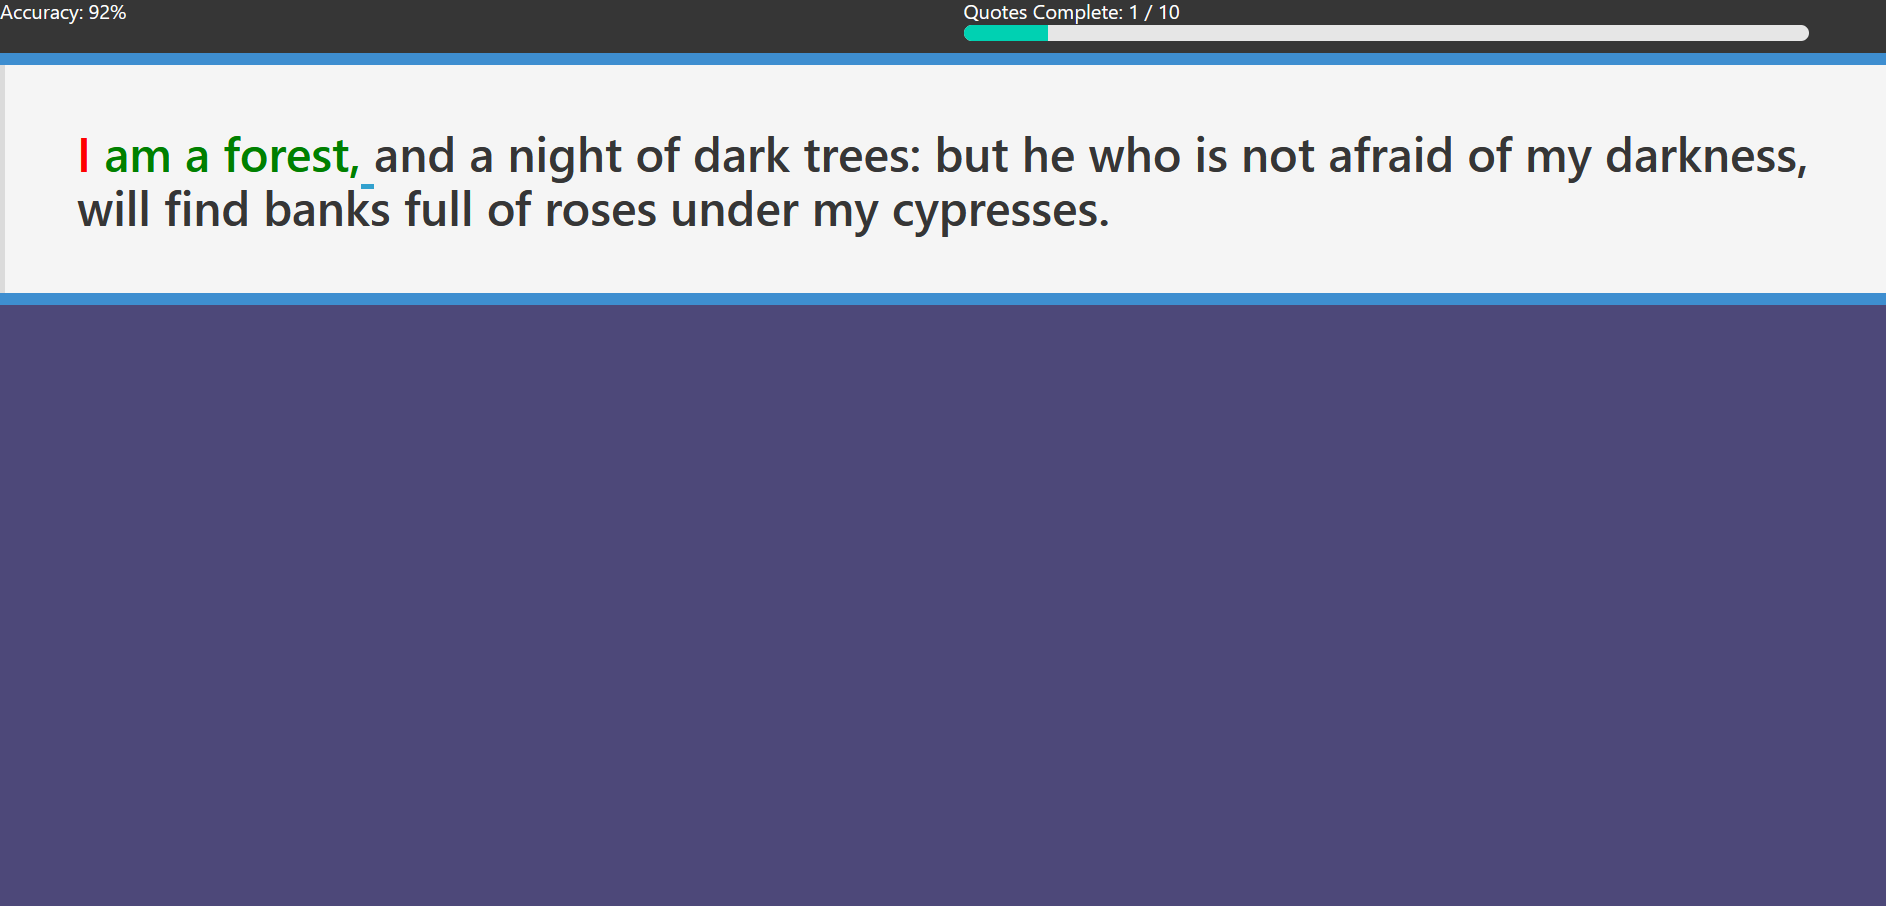
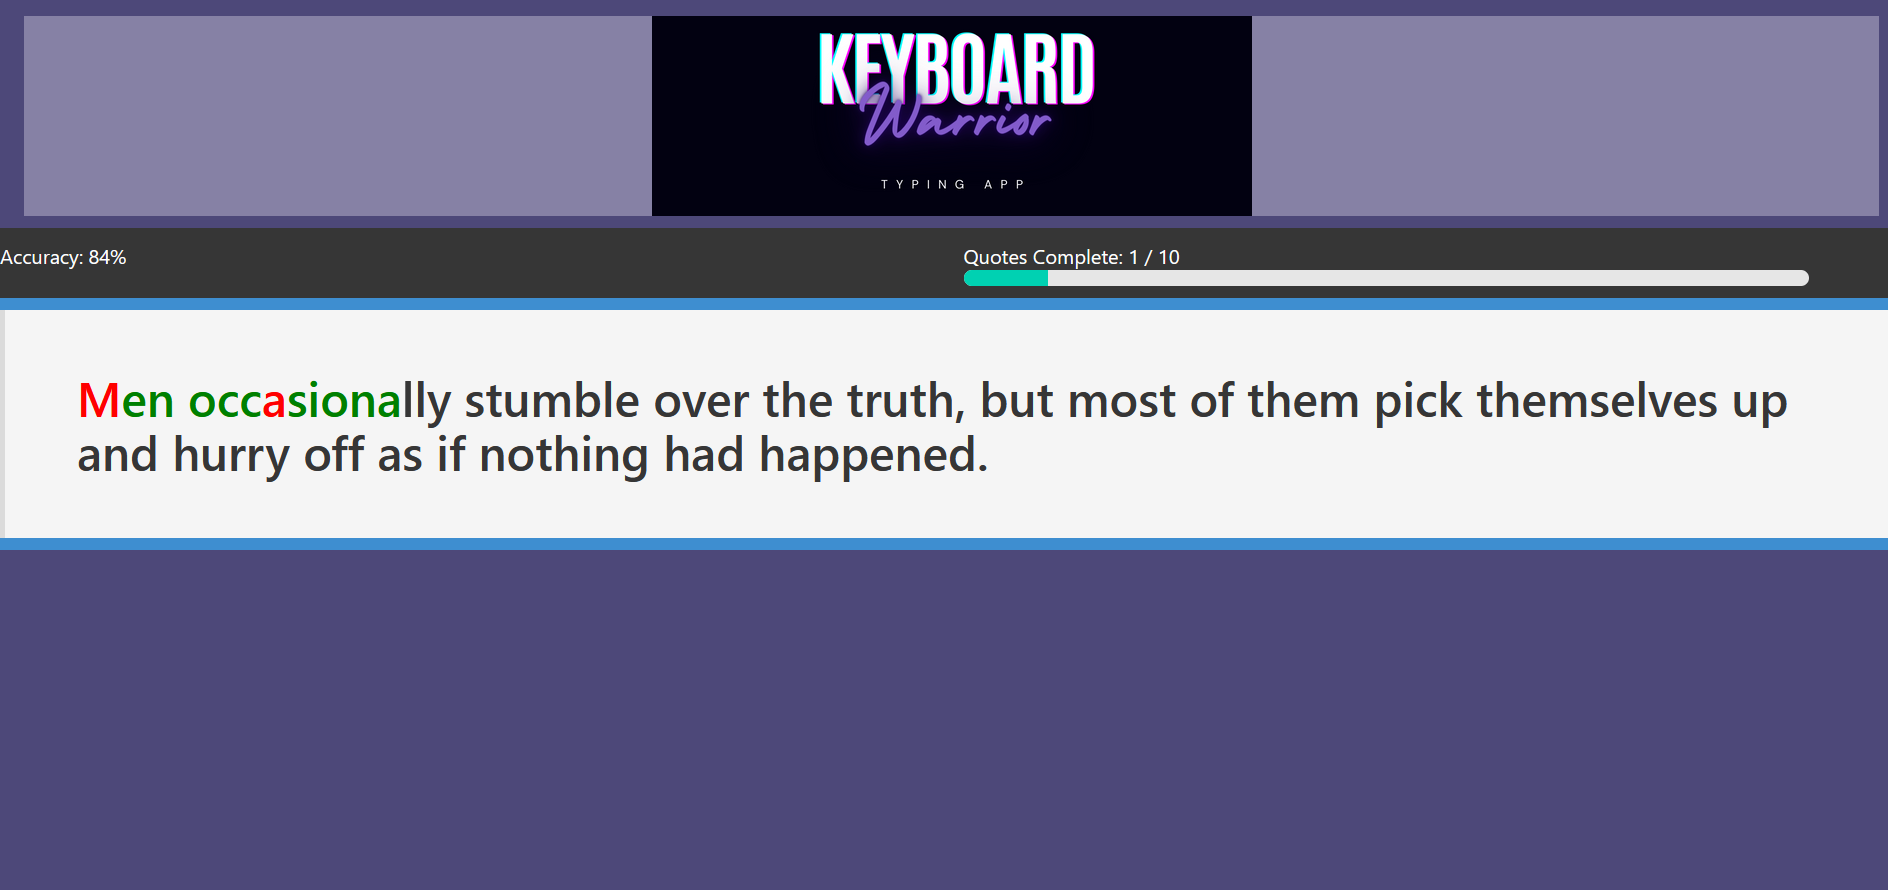
updated Readme and fixed issue with space key adjusting page when typing

diff --git a/assets/js/logic.js b/assets/js/logic.js
@@ -40,7 +40,9 @@ switch(target) {
 
 //Keyboard input listener -- WILL NEED TO CHECK TABLET COMPATIBILITY
 document.addEventListener('keydown', (event) => {
-    if (position < length){ 
+  event.preventDefault();//prevents space key from moving screen position and accidental ctl + f presses
+  
+  if (position < length){ 
       inputFilter(event);
   } else if (position >= length) {//Trigger next qoute if avaliable and array not at last #
       arrayPosition = arrayPosition + 1;//increase arrayPosition 
@@ -133,6 +135,7 @@ function restultsHTML(){
   let sum = 0;// create a variable for the sum and initialize it
   for (let i = 0; i < accuracyScores.length; i++ ) {// iterate over each item in the array
     sum += accuracyScores[i];
+    break;
   }
   let outOf = theme.length *100;//array length *100 to get total score value
   let userResults = Math.trunc(sum/outOf*100); //calculate user overall accuracy%

diff --git a/assets/css/style.css b/assets/css/style.css
@@ -42,7 +42,7 @@ body {
   display: grid;
   justify-content: center;/* shared reduce to one class */
   padding-top: 100px;
-  padding-bottom: 900px; /*CHANGE? to cover screen with bg-color */
+  padding-bottom: 700px; /*CHANGE? to cover screen with bg-color */
 }
 
 #continue{

diff --git a/assets/html/main.html b/assets/html/main.html
@@ -15,7 +15,7 @@
 
 <body>
 
-<!-- Header 
+ 
 <section class="hero is-small">
   <div class="hero-body">
     <a href="/index.html">
@@ -25,7 +25,7 @@
     </a>
   </div>
 </section>
--->
+
 
 <!-- Main content  -->
 <main id="qoute-parent">

diff --git a/README.md b/README.md
@@ -1,3 +1,4 @@
+# Keyboard Warrior
 ![Site banner](../keyboard%20warrior/assets/images/readmeBanner.png)
 
 ![HTML5](https://img.shields.io/badge/html5-%23E34F26.svg?style=for-the-badge&logo=html5&logoColor=white) ![CSS3](https://img.shields.io/badge/css3-%231572B6.svg?style=for-the-badge&logo=css3&logoColor=white) ![JavaScript](https://img.shields.io/badge/javascript-%23323330.svg?style=for-the-badge&logo=javascript&logoColor=%23F7DF1E)
@@ -21,7 +22,7 @@ An accuracy percentage is scored per qoute with a total percentage being given a
 
 ![Typing UI](/assets/images/screenshots/typing%20ui.png)
 
-![Results Page](/assets/images/screenshots/theme%20select%20page.png)
+![Results Page](/assets/images/screenshots/results%20page.png)
 
 
 
